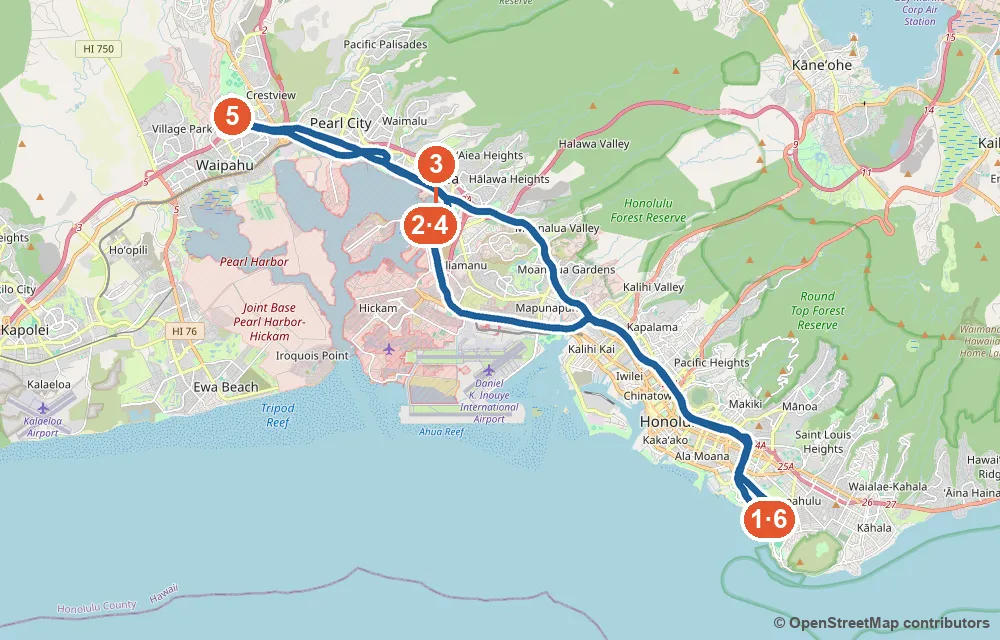
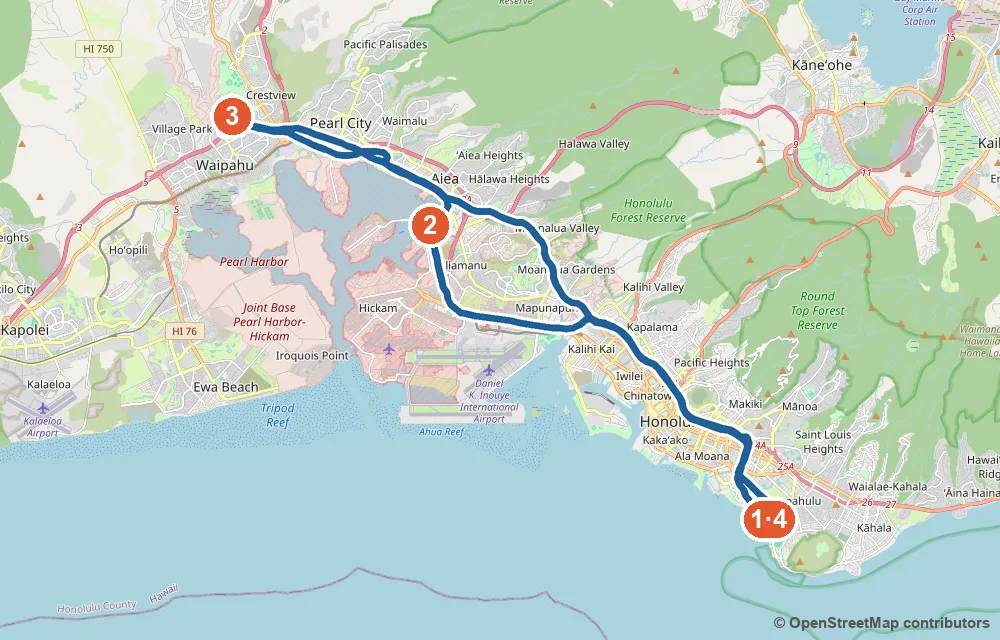
docs: 11/5 as-lived (outlet lunch, nap+pool, 19:00 dinner), 11/6 adds pool slot

Changed region(s): [[0.403, 0.2188, 0.465, 0.4062], [0.775, 0.7812, 0.806, 0.8125], [0.217, 0.1562, 0.248, 0.1875]]

diff --git a/index.html b/index.html
@@ -12,7 +12,7 @@
 // GitHub Pages 는 HTML 을 10분 캐시한다(헤더는 못 바꿈) → 열 때마다 version.json 을 캐시 없이 확인해
 // 새 버전이면 주소에 ?v=버전 을 붙여 한 번만 새로 불러온다 (같은 버전으로 이미 시도했으면 멈춤)
 (function () {
-  var BUILD = 'f5f718f380';
+  var BUILD = 'bfd2095403';
   try {
     fetch('version.json?t=' + Date.now(), { cache: 'no-store' })
       .then(function (r) { return r.ok ? r.json() : null; })
@@ -362,20 +362,19 @@ footer { max-width: 1100px; margin: 0 auto; padding: 0 16px 48px; color: var(--m
 </blockquote>
 <article class="day c1" data-date="11/5"><div class="day-head"><div class="date-badge"><b>11/5</b><span>목요일</span></div><div class="day-title"><h3 id="115-목-진주만-와이켈레-아울렛">진주만 → 와이켈레 아울렛</h3></div></div><div class="day-body">
 <p class="wx">🌤 진주만 ☔ 17% · 🌡 23~29°C · 💨 평균 초속 6.1m · 돌풍 15m (동북동) — 오전에 잠깐 소나기 뒤 대체로 맑음, 영향 적음</p>
-<figure class="routemap"><img src="maps/1105.webp?v=0086c46a8d" loading="lazy" width="1000" height="640" alt="11/5 지도"><figcaption><div class="rm-stops"><b>①</b> 메리어트 → <b>②</b> 진주만 방문자센터 → <b>③</b> Restaurant 604 → <b>④</b> 진주만 주차장 → <b>⑤</b> 와이켈레 아울렛 → <b>⑥</b> 메리어트</div><div class="rm-meta">🚗 하루 운전 약 59km · 막히지 않으면 약 1시간 9분 · 파란 선 = 차 · 초록 선 = 걷기</div><div class="rm-links">🧭 구글 지도 길찾기 <a href="https://www.google.com/maps/dir/?api=1&amp;origin=Waikiki+Beach+Marriott+Resort+%26+Spa+2552+Kalakaua+Ave&amp;destination=Pearl+Harbor+National+Memorial+Visitor+Center&amp;travelmode=driving" target="_blank" rel="noopener">①→②</a><a href="https://www.google.com/maps/dir/?api=1&amp;origin=Pearl+Harbor+National+Memorial+Visitor+Center&amp;destination=Pearl+Harbor+National+Memorial+Visitor+Center&amp;travelmode=walking&amp;waypoints=Restaurant+604+57+Arizona+Memorial+Dr" target="_blank" rel="noopener">🚶 ②→④</a><a href="https://www.google.com/maps/dir/?api=1&amp;origin=Pearl+Harbor+National+Memorial+Visitor+Center&amp;destination=Waikiki+Beach+Marriott+Resort+%26+Spa+2552+Kalakaua+Ave&amp;travelmode=driving&amp;waypoints=Waikele+Premium+Outlets" target="_blank" rel="noopener">④→⑥</a></div></figcaption></figure><div class="gallery"><figure><a href="https://commons.wikimedia.org/wiki/File:USS_Arizona_Memorial_(aerial_view).jpg" target="_blank" rel="noopener"><img src="https://thumb.wikimedia.org/wikipedia/commons/thumb/c/c3/USS_Arizona_Memorial_%28aerial_view%29.jpg/960px-USS_Arizona_Memorial_%28aerial_view%29.jpg?utm_source=commons.wikimedia.org&utm_campaign=imageinfo&utm_content=thumbnail" alt="USS 애리조나 기념관" loading="lazy" decoding="async"></a><figcaption><b>USS 애리조나 기념관</b><small>© DoD photo by: PH3(AW/SW) JAYME PASTORIC, · Public domain</small></figcaption></figure><figure><a href="https://commons.wikimedia.org/wiki/File:Hugeassmalassada.jpg" target="_blank" rel="noopener"><img src="https://upload.wikimedia.org/wikipedia/commons/c/cf/Hugeassmalassada.jpg?utm_source=commons.wikimedia.org&utm_campaign=imageinfo&utm_content=thumbnail_unscaled" alt="말라사다 — Leonard's 트럭 (와이켈레)" loading="lazy" decoding="async"></a><figcaption><b>말라사다 — Leonard's 트럭 (와이켈레)</b><small>© Chedlund808 · CC BY-SA 4.0</small></figcaption></figure><figure><a href="https://commons.wikimedia.org/wiki/File:Missouri_post_refit.JPG" target="_blank" rel="noopener"><img src="https://upload.wikimedia.org/wikipedia/commons/e/e8/Missouri_post_refit.JPG?utm_source=commons.wikimedia.org&utm_campaign=imageinfo&utm_content=thumbnail_unscaled" alt="미주리 전함" loading="lazy" decoding="async"></a><figcaption><b>미주리 전함</b><small>© Wikimedia Commons · Public domain</small></figcaption></figure></div><ol class="tl"><li><div class="t">08:00–08:50</div><div class="c"><div class="place">메리어트</div><div class="what">조식 (포함)</div></div></li><li><div class="t">09:00</div><div class="c"><div class="place">출발 (30~40분)</div></div></li><li><div class="t">09:40</div><div class="c"><div class="place"><a href="https://www.google.com/maps/search/?api=1&query=Pearl+Harbor+National+Memorial+Visitor+Center" target="_blank" rel="noopener"><strong>진주만 방문자센터</strong></a> · ✅ <strong>10:45 투어 예약 완료</strong></div><div class="what"><strong>09:45까지 도착</strong> (공식 권고 1시간 전 — 주차·가방 보관) · 전시관 보며 대기 → <strong>10:30 극장 앞 체크인</strong> (QR, 5명 함께) · 프로그램 약 45분 (영화 + 해군 보트 + 기념관) · 보트는 10:45 정각 출발</div><div class="park">🅿 <strong>$7/일 · 카드·QR 결제</strong></div></div></li><li><div class="t">~12:00</div><div class="c"><div class="place">방문자센터 전시 마무리</div></div></li><li><div class="t">12:00–13:00</div><div class="c"><div class="place"><a href="https://www.google.com/maps/search/?api=1&query=Restaurant+604+Pearl+Harbor" target="_blank" rel="noopener"><strong>Restaurant 604</strong></a> (10:30~)</div><div class="what">점심 — 항구 옆 피시앤칩스·아히 카츠 · 🍴 <strong>주문: 아히 카츠·피시앤칩스</strong> (로코모코는 다른 날과 겹쳐요) · 진주만 주차장에 차 두고 <strong>도보 10분</strong></div><div class="park">🅿 진주만 주차장</div></div></li><li><div class="t">13:00–13:30</div><div class="c"><div class="place">와이켈레 이동 (20분)</div><div class="what">☕ Waikele Center 스타벅스 / Leonard's 말라사다 트럭 (07–19, 카드만) · 🍧 <strong>Mountain Magic</strong> 셰이브아이스 (아울렛 맞은편 94-817 Lumiaina St · 목 11:30–18:30 · 현지 독자 투표 1위)</div><div class="park">🅿 무료</div></div></li><li><div class="t">13:30–17:00</div><div class="c"><div class="place">🛍 <a href="https://www.google.com/maps/search/?api=1&query=Waikele+Premium+Outlets" target="_blank" rel="noopener"><strong>와이켈레 프리미엄 아울렛</strong></a> (10–19)</div><div class="what">Coach·Polo·Tory Burch·Michael Kors·Kate Spade·Tumi · <strong>VIP Shopper Club 무료 가입 → 쿠폰</strong></div><div class="park">🅿 <strong>무료</strong></div></div></li><li><div class="t">17:00</div><div class="c"><div class="place">와이키키로 (40~60분)</div><div class="what">H-1 퇴근 정체</div></div></li><li><div class="t">18:00–19:30</div><div class="c"><div class="place">🍝 <a href="https://www.google.com/maps/search/?api=1&query=Arancino+di+Mare+Waikiki+Beach+Marriott" target="_blank" rel="noopener"><strong>Arancino di Mare</strong></a> (묵고 있는 메리어트 1층 · 매일 16:45–21:15 · ☎ 808-931-6273)</div><div class="what">저녁 — 이탈리안 피자·파스타 (구글 2,492 ★4.4 · Hale ʻAina 이탈리안 금상) · 🍴 <strong>주문: 새우 피자·카르보나라 피자·성게 스파게티</strong> · <strong>OpenTable 예약 권장</strong> · <del>Yard House</del>는 맥주집 분위기라 뺌 (11/4 가족 의견)</div><div class="park">🅿 호텔 1층 — 이동 없음</div></div></li></ol>
+<figure class="routemap"><img src="maps/1105.webp?v=60f353e952" loading="lazy" width="1000" height="640" alt="11/5 지도"><figcaption><div class="rm-stops"><b>①</b> 메리어트 → <b>②</b> 진주만 방문자센터 → <b>③</b> 와이켈레 아울렛 → <b>④</b> 메리어트</div><div class="rm-meta">🚗 하루 운전 약 59km · 막히지 않으면 약 1시간 9분 · 파란 선 = 차</div><div class="rm-links">🧭 구글 지도 길찾기 <a href="https://www.google.com/maps/dir/?api=1&amp;origin=Waikiki+Beach+Marriott+Resort+%26+Spa+2552+Kalakaua+Ave&amp;destination=Waikiki+Beach+Marriott+Resort+%26+Spa+2552+Kalakaua+Ave&amp;travelmode=driving&amp;waypoints=Pearl+Harbor+National+Memorial+Visitor+Center%7CWaikele+Premium+Outlets" target="_blank" rel="noopener">①→④</a></div></figcaption></figure><div class="gallery"><figure><a href="https://commons.wikimedia.org/wiki/File:USS_Arizona_Memorial_(aerial_view).jpg" target="_blank" rel="noopener"><img src="https://thumb.wikimedia.org/wikipedia/commons/thumb/c/c3/USS_Arizona_Memorial_%28aerial_view%29.jpg/960px-USS_Arizona_Memorial_%28aerial_view%29.jpg?utm_source=commons.wikimedia.org&utm_campaign=imageinfo&utm_content=thumbnail" alt="USS 애리조나 기념관" loading="lazy" decoding="async"></a><figcaption><b>USS 애리조나 기념관</b><small>© DoD photo by: PH3(AW/SW) JAYME PASTORIC, · Public domain</small></figcaption></figure><figure><a href="https://commons.wikimedia.org/wiki/File:Hugeassmalassada.jpg" target="_blank" rel="noopener"><img src="https://upload.wikimedia.org/wikipedia/commons/c/cf/Hugeassmalassada.jpg?utm_source=commons.wikimedia.org&utm_campaign=imageinfo&utm_content=thumbnail_unscaled" alt="말라사다 — Leonard's 트럭 (와이켈레)" loading="lazy" decoding="async"></a><figcaption><b>말라사다 — Leonard's 트럭 (와이켈레)</b><small>© Chedlund808 · CC BY-SA 4.0</small></figcaption></figure><figure><a href="https://commons.wikimedia.org/wiki/File:Missouri_post_refit.JPG" target="_blank" rel="noopener"><img src="https://upload.wikimedia.org/wikipedia/commons/e/e8/Missouri_post_refit.JPG?utm_source=commons.wikimedia.org&utm_campaign=imageinfo&utm_content=thumbnail_unscaled" alt="미주리 전함" loading="lazy" decoding="async"></a><figcaption><b>미주리 전함</b><small>© Wikimedia Commons · Public domain</small></figcaption></figure></div><ol class="tl"><li><div class="t">08:00–08:50</div><div class="c"><div class="place">메리어트 조식</div></div></li><li><div class="t">09:45</div><div class="c"><div class="place"><a href="https://www.google.com/maps/search/?api=1&query=Pearl+Harbor+National+Memorial+Visitor+Center" target="_blank" rel="noopener"><strong>진주만 방문자센터 도착</strong></a></div><div class="what">전시관 관람 · 10:30 극장 체크인</div><div class="park">🅿 $7</div></div></li><li><div class="t">10:45–11:45</div><div class="c"><div class="place">✅ <strong>USS Arizona 투어</strong></div><div class="what">영화 → 해군 보트 → 기념관 (5명)</div></div></li><li><div class="t">12:00</div><div class="c"><div class="place">진주만 출발 → 와이켈레 (점심 생략하고 바로)</div><div class="what"><del>Restaurant 604</del>는 안 감</div></div></li><li><div class="t">12:30–15:00</div><div class="c"><div class="place">🛍 <a href="https://www.google.com/maps/search/?api=1&query=Waikele+Premium+Outlets" target="_blank" rel="noopener"><strong>와이켈레 아울렛</strong></a> 쇼핑</div><div class="what"><strong>14:00 아울렛 안 식당에서 늦은 점심</strong> — 이날부터 점심은 가볍게</div><div class="park">🅿 무료</div></div></li><li><div class="t">15:00–15:30</div><div class="c"><div class="place">와이키키 복귀</div></div></li><li><div class="t">15:30–16:30</div><div class="c"><div class="place">😴 낮잠</div></div></li><li><div class="t">16:30–18:30</div><div class="c"><div class="place">🏊 <strong>메리어트 수영장</strong></div></div></li><li><div class="t">19:00~</div><div class="c"><div class="place">🍝 저녁 외출</div><div class="what">Arancino 또는 Appetito (다녀오면 기록할게요)</div></div></li></ol>
+<blockquote>
+<p>✍ <strong>실제로 보낸 하루</strong>예요 (11/5 기록).<br />
+<strong>원래 계획:</strong> 10:45 투어 뒤 항구 옆 Restaurant 604에서 점심 → 13:30 와이켈레 → 17:00 복귀 → 18:00 Arancino 저녁.<br />
+<strong>바꾼 것:</strong> 점심은 아울렛에서 간단히(점심 가볍게 방침), 오후에 낮잠·수영장 휴식을 넣고 저녁을 19:00로. 이 "일찍 복귀 → 수영장 → 저녁" 흐름이 좋아서 내일도 같은 모양이에요.</p>
+</blockquote>
 <ul>
 <li>🍕 저녁 대안: <strong>Appetito Craft Pizza &amp; Wine Bar</strong> (쉐라톤 프린세스 카이울라니 1층 · 메리어트에서 걸어서 5분 · 목 11:00–21:00 · ☎ 808-922-1150) — 아란치노 예약이 다 차면 여기로 · 나폴리 피자·파스타 $20–40 · 구글 2,431 ★4.4 · 예약 가능</li>
-<li>🎧 선택: <strong>한국어 오디오가이드</strong> — 방문자센터 Captain's 멀티미디어 투어 $13.99 (07:00~) · 전시관·기념관 해설이 한국어로 나와 부모님께 좋아요 (배 표는 이미 있으니 오디오만)</li>
-<li>🎟 <strong>USS Arizona 10:45 예약 완료</strong> — 입장은 작은형 폰 QR 하나로 5명 함께 · 극장 체크인은 10:30 (티켓 시각 10~15분 전)</li>
-<li>⚠ 진주만: <strong>불투명 일반 가방 반입 불가</strong> (보관 $7/개) · 투명 가방·복용약은 검색 후 허용될 수 있음 · 사진 신분증</li>
-<li>선택: 미주리 전함 ($42.99) · 태평양항공박물관 ($29.99) — 포드섬 무료 셔틀, <strong>외국인은 여권 지참</strong>. 넣으면 점심 14:30 이후, 아울렛 15:30부터</li>
-<li>점심 대안: <strong>Highway Inn 와이파후</strong> (무료 전용 주차장, 아울렛 가는 길 · 11/4에 카카아코점 다녀옴) · <strong>Forty Niner</strong> (1947년, 사이민, 포장·야외석)</li>
-<li>아이에아 루프는 삭제 — 공원 화장실 3곳 모두 11/25까지 폐쇄, 4.8마일이라 블록이 빠듯</li>
 <li>🏠 <strong>에어비앤비 입실 안내</strong>가 <strong>11/5 (목) 15:00</strong>(체크인 48시간 전)부터 앱에 열림 → 확인해 두기 · 관리자 연락처는 11/4에 자동 발송됨</li>
 </ul>
 </div></article><article class="day c2" data-date="11/6"><div class="day-head"><div class="date-badge"><b>11/6</b><span>금요일</span></div><div class="day-title"><h3 id="116-금-동부-해안-카일루아-해안-먼저-저녁은-카일루아">동부 해안 → 카일루아 (해안 먼저, 저녁은 카일루아)</h3></div></div><div class="day-body">
 <p class="wx">🌤 마카푸우 ☔ 14% · 🌡 24~27°C · 💨 평균 초속 8m · 돌풍 19m (북동) / 카일루아 ☔ 29% (밤 35%) · 🌡 24~27°C · 💨 평균 초속 6.2m · 돌풍 15m (북동) — 마카푸우는 이번 주 바람이 가장 세요 → 모자 턱끈 · 카일루아는 지나가는 소나기</p>
-<figure class="routemap"><img src="maps/1106.webp?v=c506afe661" loading="lazy" width="1000" height="640" alt="11/6 지도"><figcaption><div class="rm-stops"><b>①</b> 메리어트 → <b>②</b> 라나이 전망대 → <b>③</b> 할로나 블로홀 → <b>④</b> 마카푸우 등대 트레일 → <b>⑤</b> Kalapawai Café → <b>⑥</b> 카일루아 비치파크 → <b>⑦</b> 라니카이 비치 → <b>⑧</b> 카일루아 비치파크 → <b>⑨</b> 마노아 초콜릿 → <b>⑩</b> Whole Foods 카일루아 → <b>⑪</b> 메리어트 → <b>⑫</b> Hau Tree → <b>⑬</b> 메리어트</div><div class="rm-meta">🚗 하루 운전 약 66km · 막히지 않으면 약 1시간 36분 · 파란 선 = 차 · 초록 선 = 걷기</div><div class="rm-links">🧭 구글 지도 길찾기 <a href="https://www.google.com/maps/dir/?api=1&amp;origin=Waikiki+Beach+Marriott+Resort+%26+Spa+2552+Kalakaua+Ave&amp;destination=Kalapawai+Cafe+%26+Deli+750+Kailua+Rd+Kailua&amp;travelmode=driving&amp;waypoints=Lanai+Lookout+Oahu%7CHalona+Blowhole+Lookout%7CMakapuu+Point+Lighthouse+Trail+parking" target="_blank" rel="noopener">①→⑤</a><a href="https://www.google.com/maps/dir/?api=1&amp;origin=Kalapawai+Cafe+%26+Deli+750+Kailua+Rd+Kailua&amp;destination=Kailua+Beach+Park&amp;travelmode=driving" target="_blank" rel="noopener">⑤→⑥</a><a href="https://www.google.com/maps/dir/?api=1&amp;origin=Kailua+Beach+Park&amp;destination=Kailua+Beach+Park&amp;travelmode=walking&amp;waypoints=Lanikai+Beach+Mokulua+Dr+Kailua" target="_blank" rel="noopener">🚶 ⑥→⑧</a><a href="https://www.google.com/maps/dir/?api=1&amp;origin=Kailua+Beach+Park&amp;destination=Waikiki+Beach+Marriott+Resort+%26+Spa+2552+Kalakaua+Ave&amp;travelmode=driving&amp;waypoints=Manoa+Chocolate+Hawaii+333+Uluniu+St+Kailua%7CWhole+Foods+Market+Kailua" target="_blank" rel="noopener">⑧→⑪</a><a href="https://www.google.com/maps/dir/?api=1&amp;origin=Waikiki+Beach+Marriott+Resort+%26+Spa+2552+Kalakaua+Ave&amp;destination=Waikiki+Beach+Marriott+Resort+%26+Spa+2552+Kalakaua+Ave&amp;travelmode=walking&amp;waypoints=Hau+Tree+Kaimana+Beach+Hotel+2863+Kalakaua+Ave+Honolulu" target="_blank" rel="noopener">🚶 ⑪→⑬</a></div></figcaption><details class="rm-zoom"><summary>🔍 확대 지도 — 카일루아 (⑤~⑪)</summary><img src="maps/1106-zoom.webp?v=c506afe661" loading="lazy" width="1000" height="640" alt="11/6 카일루아 확대 지도"></details></figure><div class="gallery"><figure><a href="https://commons.wikimedia.org/wiki/File:Makapuu_point_light.JPG" target="_blank" rel="noopener"><img src="https://upload.wikimedia.org/wikipedia/commons/e/e4/Makapuu_point_light.JPG?utm_source=commons.wikimedia.org&utm_campaign=imageinfo&utm_content=thumbnail_unscaled" alt="마카푸우 등대" loading="lazy" decoding="async"></a><figcaption><b>마카푸우 등대</b><small>© Wikimedia Commons · Public domain</small></figcaption></figure><figure><a href="https://commons.wikimedia.org/wiki/File:Halona_Blowhole_a0002860.jpg" target="_blank" rel="noopener"><img src="https://thumb.wikimedia.org/wikipedia/commons/thumb/3/34/Halona_Blowhole_a0002860.jpg/960px-Halona_Blowhole_a0002860.jpg?utm_source=commons.wikimedia.org&utm_campaign=imageinfo&utm_content=thumbnail" alt="할로나 블로홀" loading="lazy" decoding="async"></a><figcaption><b>할로나 블로홀</b><small>© This file was created by Thomas Tunsch.  · CC BY-SA 4.0</small></figcaption></figure><figure><a href="https://commons.wikimedia.org/wiki/File:Lanikai_Beach,_Hawaii.JPG" target="_blank" rel="noopener"><img src="https://thumb.wikimedia.org/wikipedia/commons/thumb/1/1f/Lanikai_Beach%2C_Hawaii.JPG/960px-Lanikai_Beach%2C_Hawaii.JPG?utm_source=commons.wikimedia.org&utm_campaign=imageinfo&utm_content=thumbnail" alt="라니카이 비치" loading="lazy" decoding="async"></a><figcaption><b>라니카이 비치</b><small>© Cristo Vlahos · CC BY-SA 3.0</small></figcaption></figure><figure><a href="https://commons.wikimedia.org/wiki/File:Kailua_Beach_Park_-_Oahu_-_Hawaii.jpg" target="_blank" rel="noopener"><img src="https://thumb.wikimedia.org/wikipedia/commons/thumb/3/36/Kailua_Beach_Park_-_Oahu_-_Hawaii.jpg/960px-Kailua_Beach_Park_-_Oahu_-_Hawaii.jpg?utm_source=commons.wikimedia.org&utm_campaign=imageinfo&utm_content=thumbnail" alt="카일루아 비치" loading="lazy" decoding="async"></a><figcaption><b>카일루아 비치</b><small>© Tony Webster · CC BY 2.0</small></figcaption></figure></div><ol class="tl"><li><div class="t">08:00–08:50</div><div class="c"><div class="place">메리어트</div><div class="what">조식 (포함)</div></div></li><li><div class="t">09:00</div><div class="c"><div class="place">호텔 출발</div><div class="what"><strong>짐·귀중품은 호텔에서 미리 트렁크에</strong></div></div></li><li><div class="t">09:50–10:10</div><div class="c"><div class="place">라나이 룩아웃 → 할로나 블로홀</div><div class="what">절벽·블로홀 사진, 각 10분 · <strong>전망대 아래 바위로 내려가지 않기</strong> (파도 사고)</div><div class="park">🅿 무료 소형 (15대 / 20~25대)</div></div></li><li><div class="t">10:20–12:05</div><div class="c"><div class="place">🥾 <a href="https://www.google.com/maps/search/?api=1&query=Makapuu+Point+Lighthouse+Trail" target="_blank" rel="noopener"><strong>마카푸우 등대 트레일</strong></a></div><div class="what">한낮 전이라 <strong>물·모자 필수</strong> · 왕복 3.2km 포장길 · +150m · 약 2시간 · <strong>그늘·화장실·식수 없음</strong> · 고래 시즌 시작</div><div class="park">🅿 무료, 07:00 개방, 협소</div><figure class="routemap"><img src="maps/hike-makapuu.webp?v=3348580688" loading="lazy" width="1000" height="640" alt="하이킹: 마카푸우 등대 지도"><figcaption><div class="rm-stops"><b>🥾 마카푸우 등대 코스</b> · <b>①</b> 주차장·입구 → <b>②</b> 정상 전망대 (등대 위)</div><div class="rm-meta">왕복 3.2km · +150m · 포장길 · 그늘·화장실 없음 · 초록 선 = 걷는 길 (대략)</div><div class="rm-links">🧭 구글 지도 <a href="https://www.google.com/maps/search/?api=1&amp;query=21.30456,-157.65677" target="_blank" rel="noopener">📍 입구</a></div></figcaption></figure></div></li><li><div class="t">12:05–12:35</div><div class="c"><div class="place">와이마날로 경유 → 카일루아</div><div class="what">해안 드라이브</div></div></li><li><div class="t">12:35–13:30</div><div class="c"><div class="place"><a href="https://www.google.com/maps/search/?api=1&query=Kalapawai+Cafe+%26+Deli+750+Kailua+Rd+Kailua" target="_blank" rel="noopener"><strong>Kalapawai Café &amp; Deli</strong></a> (06–21)</div><div class="what">점심 — 샌드위치·플랫브레드 · 🍴 <strong>주문: 후리카케 생선 샌드위치·포케볼</strong> (비치 버거는 피하기)</div><div class="park">🅿 자체 lot (미확인)</div></div></li><li><div class="t">13:45–15:30</div><div class="c"><div class="place">카일루아 비치파크 → 라니카이 비치 (도보 15~20분)</div><div class="what">부모님: 해변 산책 + <strong>Island Snow</strong> 빙수 · (선택) 🥾 아들들 <strong>라니카이 필박스</strong> — 비치파크에서 왕복 포함 약 2시간, 초반 로프 급경사</div><div class="park">🅿 <strong>카일루아 비치파크 무료</strong> — 라니카이 Mokulua Dr <strong>종일 주차금지 계획</strong> (시정부 단계별 시행 — 7/1 시행 여부는 확인 불가, 현장 표지판 우선)</div><figure class="routemap"><img src="maps/hike-lanikai.webp?v=a96e10a856" loading="lazy" width="1000" height="640" alt="하이킹: 라니카이 필박스 지도"><figcaption><div class="rm-stops"><b>🥾 라니카이 필박스 코스</b> · <b>①</b> 카일루아 비치파크 → <b>②</b> 입구 (Kaelepulu Dr) → <b>③</b> 두 번째 필박스</div><div class="rm-meta">입구까지 걸어서 15분 + 초반 로프 급경사 흙길 · 난간 없음 · 초록 선 = 걷는 길 (대략)</div><div class="rm-links">🧭 구글 지도 <a href="https://www.google.com/maps/search/?api=1&amp;query=21.397396,-157.7272179" target="_blank" rel="noopener">📍 입구</a></div></figcaption></figure></div></li><li><div class="t">15:45–16:40</div><div class="c"><div class="place">🛍 <strong>카일루아 쇼핑</strong></div><div class="what">🍫 <strong>마노아 초콜릿</strong> (카페 금 08–19 · 시식·기념품 시간은 방문 전 확인 · 가이드북 · 구글 리뷰 1,509 ★4.8) → Whole Foods Kailua (07–22) → (시간 남으면) 카일루아 타운 부티크 · <strong>16:45 와이키키로 출발</strong></div><div class="park">🅿 매장별 무료 lot</div></div></li><li><div class="t">16:45–17:40</div><div class="c"><div class="place">와이키키로 (팔리 하이웨이 경유)</div><div class="what">팔리 전망대는 <strong>11/10 아침에 들러요</strong> · 호텔에서 잠깐 쉬기</div></div></li><li><div class="t">18:00–19:30</div><div class="c"><div class="place">🌳 <a href="https://www.google.com/maps/search/?api=1&query=Hau+Tree+Kaimana+Beach+Hotel+2863+Kalakaua+Ave+Honolulu" target="_blank" rel="noopener"><strong>Hau Tree</strong></a> (카이마나 비치 호텔 1층, 2863 Kalakaua · 금 ~21:00)</div><div class="what">저녁 — <strong>해변 하우 나무 아래 테라스</strong> (1,975 ★4.2 · 현지 매체 야외 식사 수상) · 조용하고 우아한 분위기 · 🍴 <strong>주문: 램찹 · 오늘의 생선</strong> (새우 파스타는 11/8 새우와 겹침) · <strong>OpenTable 18:00 예약 — 테라스 자리 요청</strong> (일몰 17:54) · <del>Tiki's</del>는 라이브 음악으로 시끌벅적해서 조용한 곳 선호로 교체 (11/5)</div><div class="park">🅿 메리어트에서 <strong>해변 산책로 도보 12분</strong> (차 4분) — 17:45쯤 노을 보며 걸어가요</div></div></li></ol>
+<figure class="routemap"><img src="maps/1106.webp?v=c506afe661" loading="lazy" width="1000" height="640" alt="11/6 지도"><figcaption><div class="rm-stops"><b>①</b> 메리어트 → <b>②</b> 라나이 전망대 → <b>③</b> 할로나 블로홀 → <b>④</b> 마카푸우 등대 트레일 → <b>⑤</b> Kalapawai Café → <b>⑥</b> 카일루아 비치파크 → <b>⑦</b> 라니카이 비치 → <b>⑧</b> 카일루아 비치파크 → <b>⑨</b> 마노아 초콜릿 → <b>⑩</b> Whole Foods 카일루아 → <b>⑪</b> 메리어트 → <b>⑫</b> Hau Tree → <b>⑬</b> 메리어트</div><div class="rm-meta">🚗 하루 운전 약 66km · 막히지 않으면 약 1시간 36분 · 파란 선 = 차 · 초록 선 = 걷기</div><div class="rm-links">🧭 구글 지도 길찾기 <a href="https://www.google.com/maps/dir/?api=1&amp;origin=Waikiki+Beach+Marriott+Resort+%26+Spa+2552+Kalakaua+Ave&amp;destination=Kalapawai+Cafe+%26+Deli+750+Kailua+Rd+Kailua&amp;travelmode=driving&amp;waypoints=Lanai+Lookout+Oahu%7CHalona+Blowhole+Lookout%7CMakapuu+Point+Lighthouse+Trail+parking" target="_blank" rel="noopener">①→⑤</a><a href="https://www.google.com/maps/dir/?api=1&amp;origin=Kalapawai+Cafe+%26+Deli+750+Kailua+Rd+Kailua&amp;destination=Kailua+Beach+Park&amp;travelmode=driving" target="_blank" rel="noopener">⑤→⑥</a><a href="https://www.google.com/maps/dir/?api=1&amp;origin=Kailua+Beach+Park&amp;destination=Kailua+Beach+Park&amp;travelmode=walking&amp;waypoints=Lanikai+Beach+Mokulua+Dr+Kailua" target="_blank" rel="noopener">🚶 ⑥→⑧</a><a href="https://www.google.com/maps/dir/?api=1&amp;origin=Kailua+Beach+Park&amp;destination=Waikiki+Beach+Marriott+Resort+%26+Spa+2552+Kalakaua+Ave&amp;travelmode=driving&amp;waypoints=Manoa+Chocolate+Hawaii+333+Uluniu+St+Kailua%7CWhole+Foods+Market+Kailua" target="_blank" rel="noopener">⑧→⑪</a><a href="https://www.google.com/maps/dir/?api=1&amp;origin=Waikiki+Beach+Marriott+Resort+%26+Spa+2552+Kalakaua+Ave&amp;destination=Waikiki+Beach+Marriott+Resort+%26+Spa+2552+Kalakaua+Ave&amp;travelmode=walking&amp;waypoints=Hau+Tree+Kaimana+Beach+Hotel+2863+Kalakaua+Ave+Honolulu" target="_blank" rel="noopener">🚶 ⑪→⑬</a></div></figcaption><details class="rm-zoom"><summary>🔍 확대 지도 — 카일루아 (⑤~⑪)</summary><img src="maps/1106-zoom.webp?v=c506afe661" loading="lazy" width="1000" height="640" alt="11/6 카일루아 확대 지도"></details></figure><div class="gallery"><figure><a href="https://commons.wikimedia.org/wiki/File:Makapuu_point_light.JPG" target="_blank" rel="noopener"><img src="https://upload.wikimedia.org/wikipedia/commons/e/e4/Makapuu_point_light.JPG?utm_source=commons.wikimedia.org&utm_campaign=imageinfo&utm_content=thumbnail_unscaled" alt="마카푸우 등대" loading="lazy" decoding="async"></a><figcaption><b>마카푸우 등대</b><small>© Wikimedia Commons · Public domain</small></figcaption></figure><figure><a href="https://commons.wikimedia.org/wiki/File:Halona_Blowhole_a0002860.jpg" target="_blank" rel="noopener"><img src="https://thumb.wikimedia.org/wikipedia/commons/thumb/3/34/Halona_Blowhole_a0002860.jpg/960px-Halona_Blowhole_a0002860.jpg?utm_source=commons.wikimedia.org&utm_campaign=imageinfo&utm_content=thumbnail" alt="할로나 블로홀" loading="lazy" decoding="async"></a><figcaption><b>할로나 블로홀</b><small>© This file was created by Thomas Tunsch.  · CC BY-SA 4.0</small></figcaption></figure><figure><a href="https://commons.wikimedia.org/wiki/File:Lanikai_Beach,_Hawaii.JPG" target="_blank" rel="noopener"><img src="https://thumb.wikimedia.org/wikipedia/commons/thumb/1/1f/Lanikai_Beach%2C_Hawaii.JPG/960px-Lanikai_Beach%2C_Hawaii.JPG?utm_source=commons.wikimedia.org&utm_campaign=imageinfo&utm_content=thumbnail" alt="라니카이 비치" loading="lazy" decoding="async"></a><figcaption><b>라니카이 비치</b><small>© Cristo Vlahos · CC BY-SA 3.0</small></figcaption></figure><figure><a href="https://commons.wikimedia.org/wiki/File:Kailua_Beach_Park_-_Oahu_-_Hawaii.jpg" target="_blank" rel="noopener"><img src="https://thumb.wikimedia.org/wikipedia/commons/thumb/3/36/Kailua_Beach_Park_-_Oahu_-_Hawaii.jpg/960px-Kailua_Beach_Park_-_Oahu_-_Hawaii.jpg?utm_source=commons.wikimedia.org&utm_campaign=imageinfo&utm_content=thumbnail" alt="카일루아 비치" loading="lazy" decoding="async"></a><figcaption><b>카일루아 비치</b><small>© Tony Webster · CC BY 2.0</small></figcaption></figure></div><ol class="tl"><li><div class="t">08:00–08:50</div><div class="c"><div class="place">메리어트</div><div class="what">조식 (포함)</div></div></li><li><div class="t">09:00</div><div class="c"><div class="place">호텔 출발</div><div class="what"><strong>짐·귀중품은 호텔에서 미리 트렁크에</strong></div></div></li><li><div class="t">09:50–10:10</div><div class="c"><div class="place">라나이 룩아웃 → 할로나 블로홀</div><div class="what">절벽·블로홀 사진, 각 10분 · <strong>전망대 아래 바위로 내려가지 않기</strong> (파도 사고)</div><div class="park">🅿 무료 소형 (15대 / 20~25대)</div></div></li><li><div class="t">10:20–12:05</div><div class="c"><div class="place">🥾 <a href="https://www.google.com/maps/search/?api=1&query=Makapuu+Point+Lighthouse+Trail" target="_blank" rel="noopener"><strong>마카푸우 등대 트레일</strong></a></div><div class="what">한낮 전이라 <strong>물·모자 필수</strong> · 왕복 3.2km 포장길 · +150m · 약 2시간 · <strong>그늘·화장실·식수 없음</strong> · 고래 시즌 시작</div><div class="park">🅿 무료, 07:00 개방, 협소</div><figure class="routemap"><img src="maps/hike-makapuu.webp?v=3348580688" loading="lazy" width="1000" height="640" alt="하이킹: 마카푸우 등대 지도"><figcaption><div class="rm-stops"><b>🥾 마카푸우 등대 코스</b> · <b>①</b> 주차장·입구 → <b>②</b> 정상 전망대 (등대 위)</div><div class="rm-meta">왕복 3.2km · +150m · 포장길 · 그늘·화장실 없음 · 초록 선 = 걷는 길 (대략)</div><div class="rm-links">🧭 구글 지도 <a href="https://www.google.com/maps/search/?api=1&amp;query=21.30456,-157.65677" target="_blank" rel="noopener">📍 입구</a></div></figcaption></figure></div></li><li><div class="t">12:05–12:35</div><div class="c"><div class="place">와이마날로 경유 → 카일루아</div><div class="what">해안 드라이브</div></div></li><li><div class="t">12:35–13:30</div><div class="c"><div class="place"><a href="https://www.google.com/maps/search/?api=1&query=Kalapawai+Cafe+%26+Deli+750+Kailua+Rd+Kailua" target="_blank" rel="noopener"><strong>Kalapawai Café &amp; Deli</strong></a> (06–21)</div><div class="what">점심 — 샌드위치·플랫브레드 · 🍴 <strong>주문: 후리카케 생선 샌드위치·포케볼</strong> (비치 버거는 피하기)</div><div class="park">🅿 자체 lot (미확인)</div></div></li><li><div class="t">13:45–15:30</div><div class="c"><div class="place">카일루아 비치파크 → 라니카이 비치 (도보 15~20분)</div><div class="what">부모님: 해변 산책 + <strong>Island Snow</strong> 빙수 · (선택) 🥾 아들들 <strong>라니카이 필박스</strong> — 비치파크에서 왕복 포함 약 2시간, 초반 로프 급경사</div><div class="park">🅿 <strong>카일루아 비치파크 무료</strong> — 라니카이 Mokulua Dr <strong>종일 주차금지 계획</strong> (시정부 단계별 시행 — 7/1 시행 여부는 확인 불가, 현장 표지판 우선)</div><figure class="routemap"><img src="maps/hike-lanikai.webp?v=a96e10a856" loading="lazy" width="1000" height="640" alt="하이킹: 라니카이 필박스 지도"><figcaption><div class="rm-stops"><b>🥾 라니카이 필박스 코스</b> · <b>①</b> 카일루아 비치파크 → <b>②</b> 입구 (Kaelepulu Dr) → <b>③</b> 두 번째 필박스</div><div class="rm-meta">입구까지 걸어서 15분 + 초반 로프 급경사 흙길 · 난간 없음 · 초록 선 = 걷는 길 (대략)</div><div class="rm-links">🧭 구글 지도 <a href="https://www.google.com/maps/search/?api=1&amp;query=21.397396,-157.7272179" target="_blank" rel="noopener">📍 입구</a></div></figcaption></figure></div></li><li><div class="t">15:30–16:00</div><div class="c"><div class="place">🛍 <strong>카일루아 쇼핑</strong></div><div class="what">🍫 <strong>마노아 초콜릿</strong> (카페 금 08–19 · 시식·기념품 시간은 방문 전 확인 · 가이드북 · 구글 리뷰 1,509 ★4.8) → Whole Foods Kailua (07–22) → (시간 남으면) 카일루아 타운 부티크 · <strong>16:00 와이키키로 출발</strong></div><div class="park">🅿 매장별 무료 lot</div></div></li><li><div class="t">16:00–16:45</div><div class="c"><div class="place">와이키키로 (팔리 하이웨이 경유)</div><div class="what">팔리 전망대는 <strong>11/10 아침에 들러요</strong></div></div></li><li><div class="t">16:45–17:30</div><div class="c"><div class="place">🏊 <strong>메리어트 수영장</strong></div><div class="what">수영·휴식 → 17:30 샤워·환복</div></div></li><li><div class="t">18:00–19:30</div><div class="c"><div class="place">🌳 <a href="https://www.google.com/maps/search/?api=1&query=Hau+Tree+Kaimana+Beach+Hotel+2863+Kalakaua+Ave+Honolulu" target="_blank" rel="noopener"><strong>Hau Tree</strong></a> (카이마나 비치 호텔 1층, 2863 Kalakaua · 금 ~21:00)</div><div class="what">저녁 — <strong>해변 하우 나무 아래 테라스</strong> (1,975 ★4.2 · 현지 매체 야외 식사 수상) · 조용하고 우아한 분위기 · 🍴 <strong>주문: 램찹 · 오늘의 생선</strong> (새우 파스타는 11/8 새우와 겹침) · <strong>OpenTable 18:00 예약 — 테라스 자리 요청</strong> (일몰 17:54) · <del>Tiki's</del>는 라이브 음악으로 시끌벅적해서 조용한 곳 선호로 교체 (11/5)</div><div class="park">🅿 메리어트에서 <strong>해변 산책로 도보 12분</strong> (차 4분) — <strong>17:45 출발</strong>, 노을(17:54) 보며 걸어가요</div></div></li></ol>
 
 
 
@@ -569,7 +568,7 @@ footer { max-width: 1100px; margin: 0 auto; padding: 0 16px 48px; color: var(--m
 </tr>
 <tr>
 <td data-label="끼니"><span class="v">점심</span></td>
-<td data-label="식당"><span class="v"><strong>Restaurant 604</strong></span></td>
+<td data-label="식당"><span class="v"><del>Restaurant 604</del> → 아울렛 간단 점심 (실제)</span></td>
 <td data-label="대표 메뉴 · 가격"><span class="v">피시앤칩스 $22 · 아히 카츠 $28 · 로코모코·치킨 카츠 $20</span></td>
 <td data-label="분위기 · 특징"><span class="v">진주만 <strong>항구 바로 옆</strong> · 넓은 주차장 · 현지인 추천<br>🍴 <strong>아히 카츠 · 피시앤칩스</strong><br>↔ <strong>겹침:</strong> 로코모코 → 11/4 Highway Inn · 11/7 Liliha / 치킨 카츠 → 11/10 Heavenly 치킨 등</span></td>
 </tr>
@@ -1133,7 +1132,7 @@ footer { max-width: 1100px; margin: 0 auto; padding: 0 16px 48px; color: var(--m
 <td data-label="비고"><span class="v">주문 페이지 가격 (날짜 없음)</span></td>
 </tr>
 <tr>
-<td data-label="날짜 · 끼니"><span class="v">11/5 점심</span></td>
+<td data-label="날짜 · 끼니"><span class="v">11/5 점심 (안 감)</span></td>
 <td data-label="식당"><span class="v">Restaurant 604</span></td>
 <td data-label="대표 메뉴 · 가격"><span class="v">피시앤칩스 $22 · 아히 카츠 $28 · 로코모코·치킨 카츠 각 $20</span></td>
 <td data-label="1인 예상"><span class="v">$20–30</span></td>
@@ -2251,7 +2250,7 @@ footer { max-width: 1100px; margin: 0 auto; padding: 0 16px 48px; color: var(--m
 ☐ 위탁 수하물 23kg 초과 주의 — 귀국 때 아울렛 쇼핑 짐도
 ☐ 액체류 100ml 이하·투명 지퍼백 (총 1L) · 보조배터리는 기내 가방에</pre></div></section>
 </main>
-<footer>업데이트 2026-11-06 14:39 KST · 영업시간·주차는 2026-11-02 웹 조사 + Codex 검수 기준입니다. (미확인) 항목은 방문 전날 구글맵·전화로 다시 확인하세요. 체크 표시는 이 기기에만 저장됩니다. 사진: Wikimedia Commons 자유 이용 사진 — 사진을 누르면 저작자·라이선스 원문으로 이동합니다.</footer>
+<footer>업데이트 2026-11-06 14:45 KST · 영업시간·주차는 2026-11-02 웹 조사 + Codex 검수 기준입니다. (미확인) 항목은 방문 전날 구글맵·전화로 다시 확인하세요. 체크 표시는 이 기기에만 저장됩니다. 사진: Wikimedia Commons 자유 이용 사진 — 사진을 누르면 저작자·라이선스 원문으로 이동합니다.</footer>
 <button class="top-btn" id="topBtn" aria-label="맨 위로">↑</button>
 <script>
 (function () {
